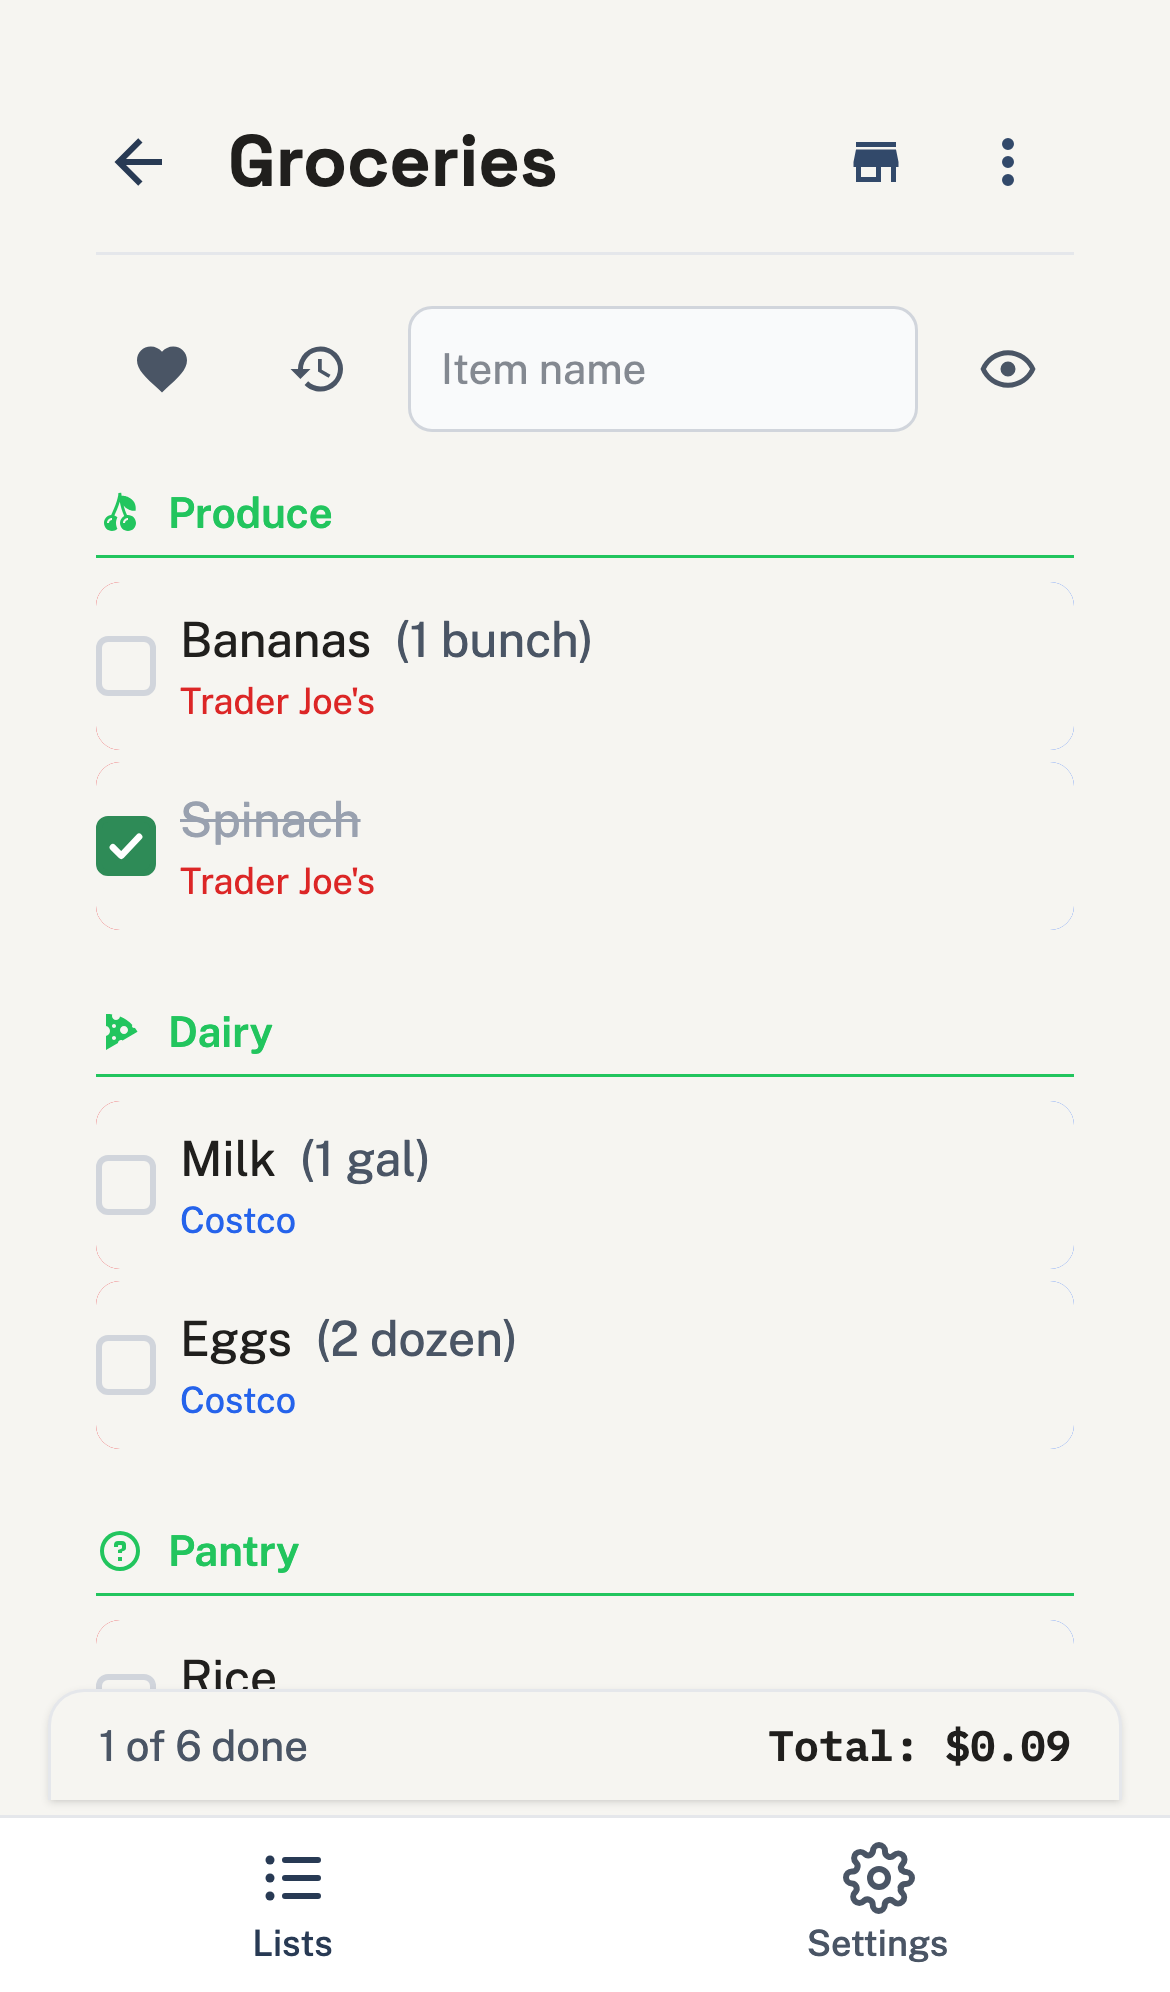
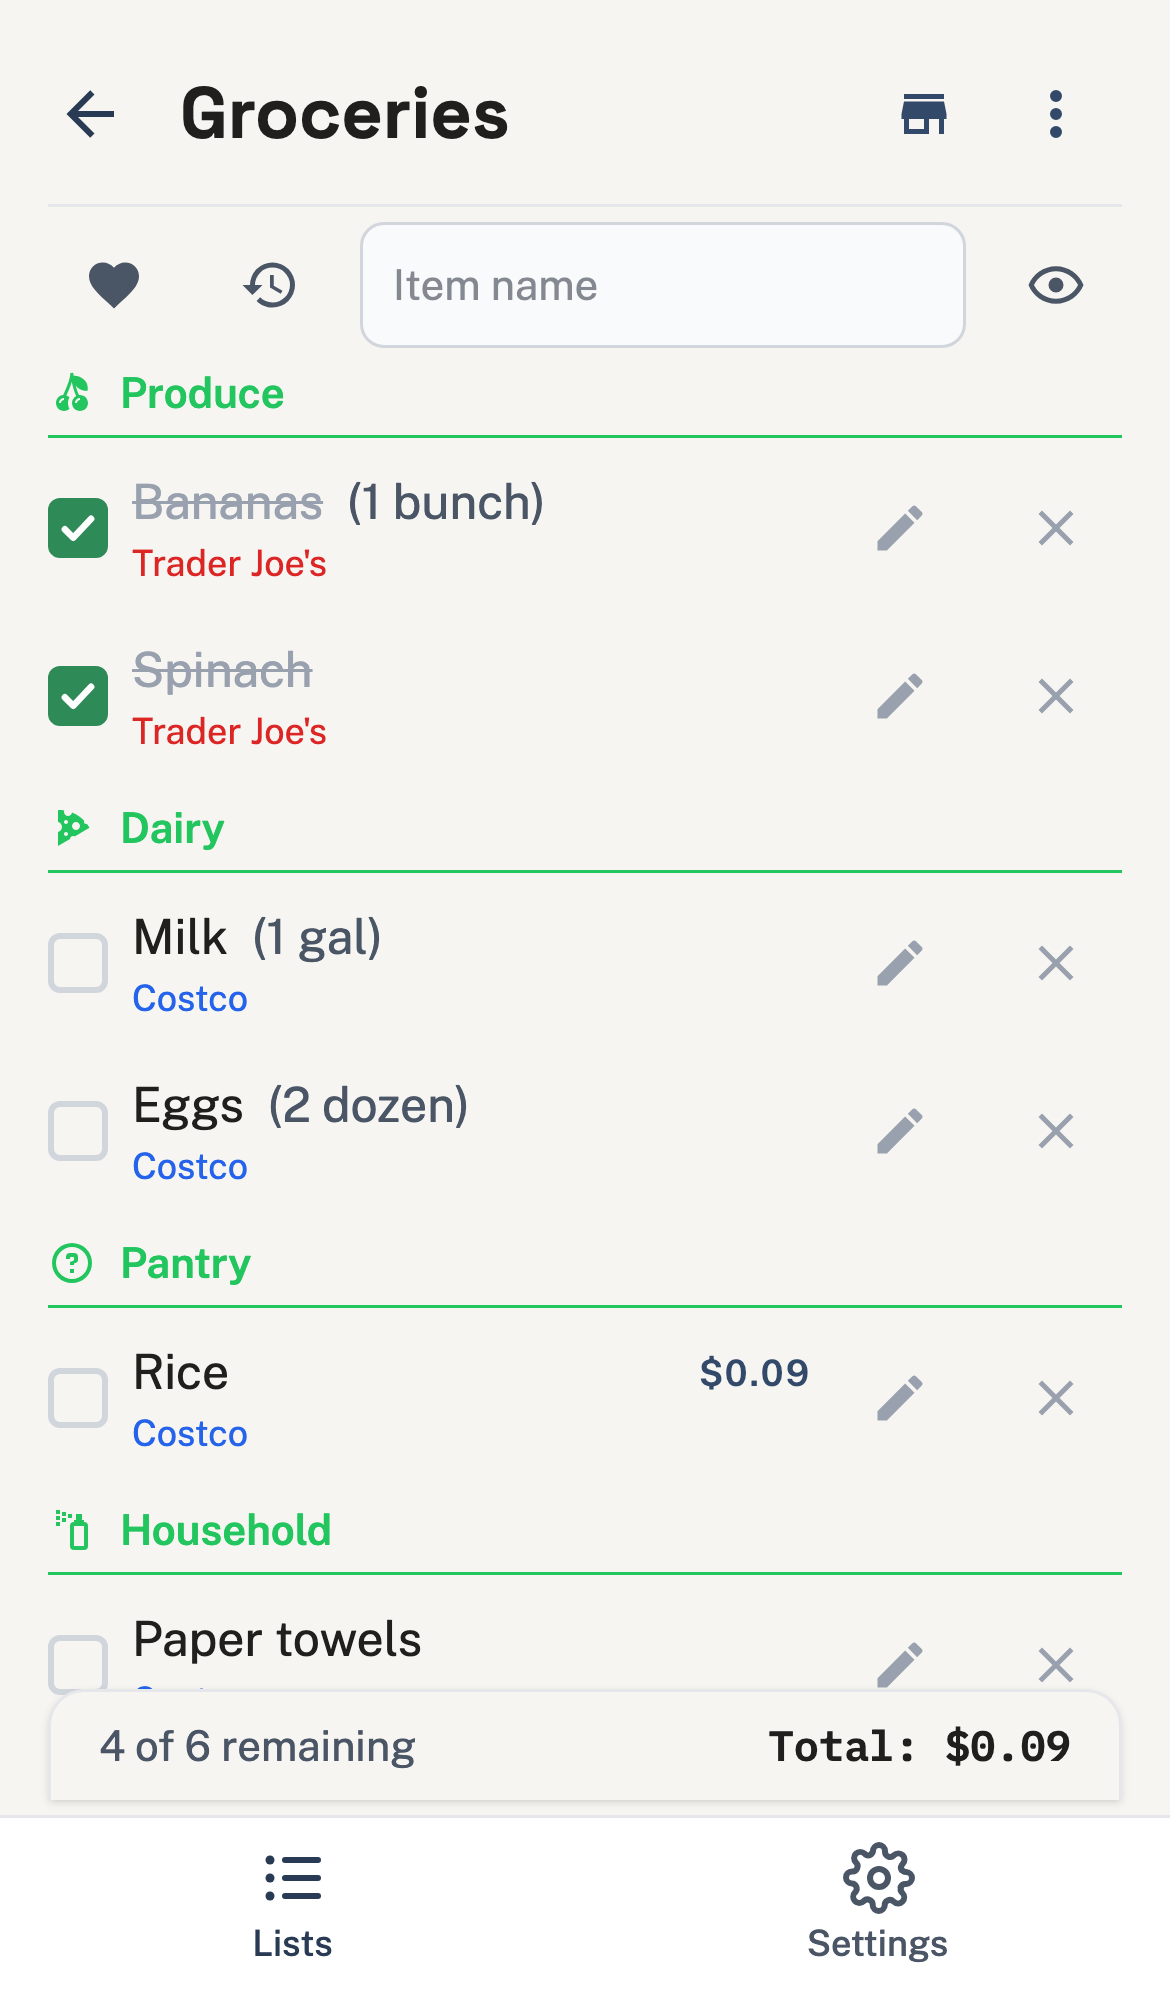
Refresh README screenshots and add dark mode variants
The light-mode screenshots were stale relative to the current app UI.
Recaptured all four against the running dev app and added matching
dark-mode shots alongside them.

diff --git a/README.md b/README.md
@@ -36,6 +36,12 @@ EveryList is feature-complete and self-hostable today.
   <img src="branding/screenshots/sharing.png" width="200" alt="List sharing / members screen">
   <img src="branding/screenshots/settings.png" width="200" alt="Settings screen">
 </p>
+<p align="center">
+  <img src="branding/screenshots/lists-dark.png" width="200" alt="Lists screen, dark mode">
+  <img src="branding/screenshots/list-detail-dark.png" width="200" alt="List detail screen, dark mode">
+  <img src="branding/screenshots/sharing-dark.png" width="200" alt="List sharing / members screen, dark mode">
+  <img src="branding/screenshots/settings-dark.png" width="200" alt="Settings screen, dark mode">
+</p>
 
 ## Features
 
